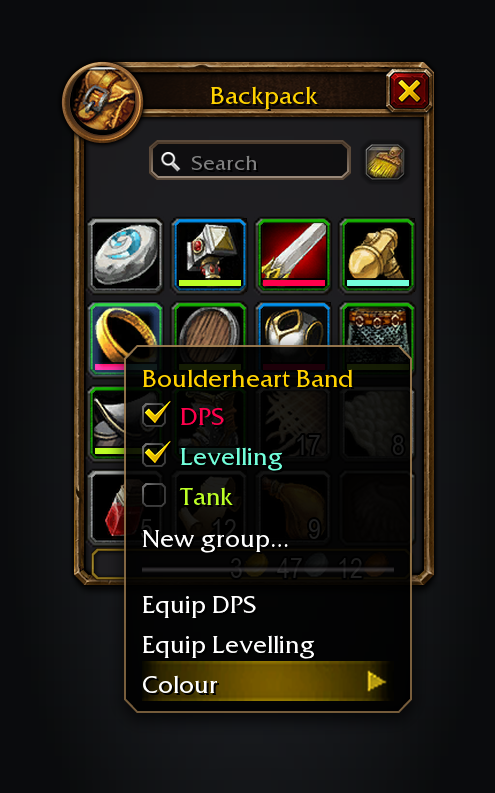
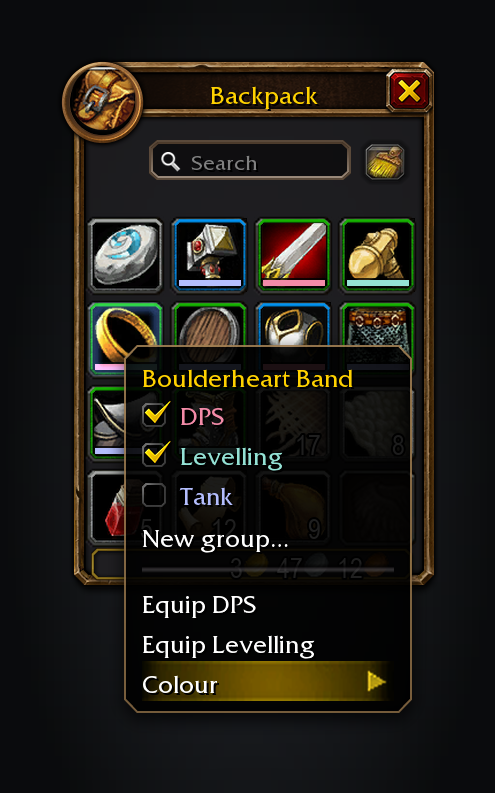
feat(gear): soft group palette; clearer Before fishing section
- Palette: the saturated 0.1.3 colours read as harsh. The new four are
  Catppuccin Mocha's rose, teal, lavender and pink, each at least CIEDE2000
  20 from every item quality colour. Its other accents sit on a quality's
  hue or beside one of these, so a fifth list repeats a colour. Written as
  n/255 so tooltip hex codes are exact.
- Recolour now forgets stored colours from either retired palette instead of
  mapping them by index, which with four colours would have given two
  existing groups the same one; each list takes an unused colour next draw.
- Equipping a pole moved its weapons into the bag, the bag relaid out with
  them under their Equipment Manager set, and 0.2s later the settle recorded
  Before fishing and moved them again. Sections now skip relayout while the
  settle is pending; its own refresh lays the bag out.
- The Before fishing heading carries the fishing icon.

Claude-Session: https://claude.ai/code/session_016cB4EsmY8J7vcvboaHNcoS

diff --git a/tools/screenshots.py b/tools/screenshots.py
@@ -36,7 +36,7 @@ PLAYER_LEVEL = 22
 MARGIN = 28
 
 # Gear.lua PALETTE, taken in turn as the groups were created.
-GROUPS = {"DPS": (1, 0, 0.3), "Levelling": (0.45, 1, 0.86), "Tank": (0.74, 1, 0.15)}
+GROUPS = {"DPS": (243 / 255, 139 / 255, 168 / 255), "Levelling": (148 / 255, 226 / 255, 213 / 255), "Tank": (180 / 255, 190 / 255, 254 / 255)}
 HOVERED = 4
 # Backpack slots in order: (itemID, stack count, groups).
 BAG = [
